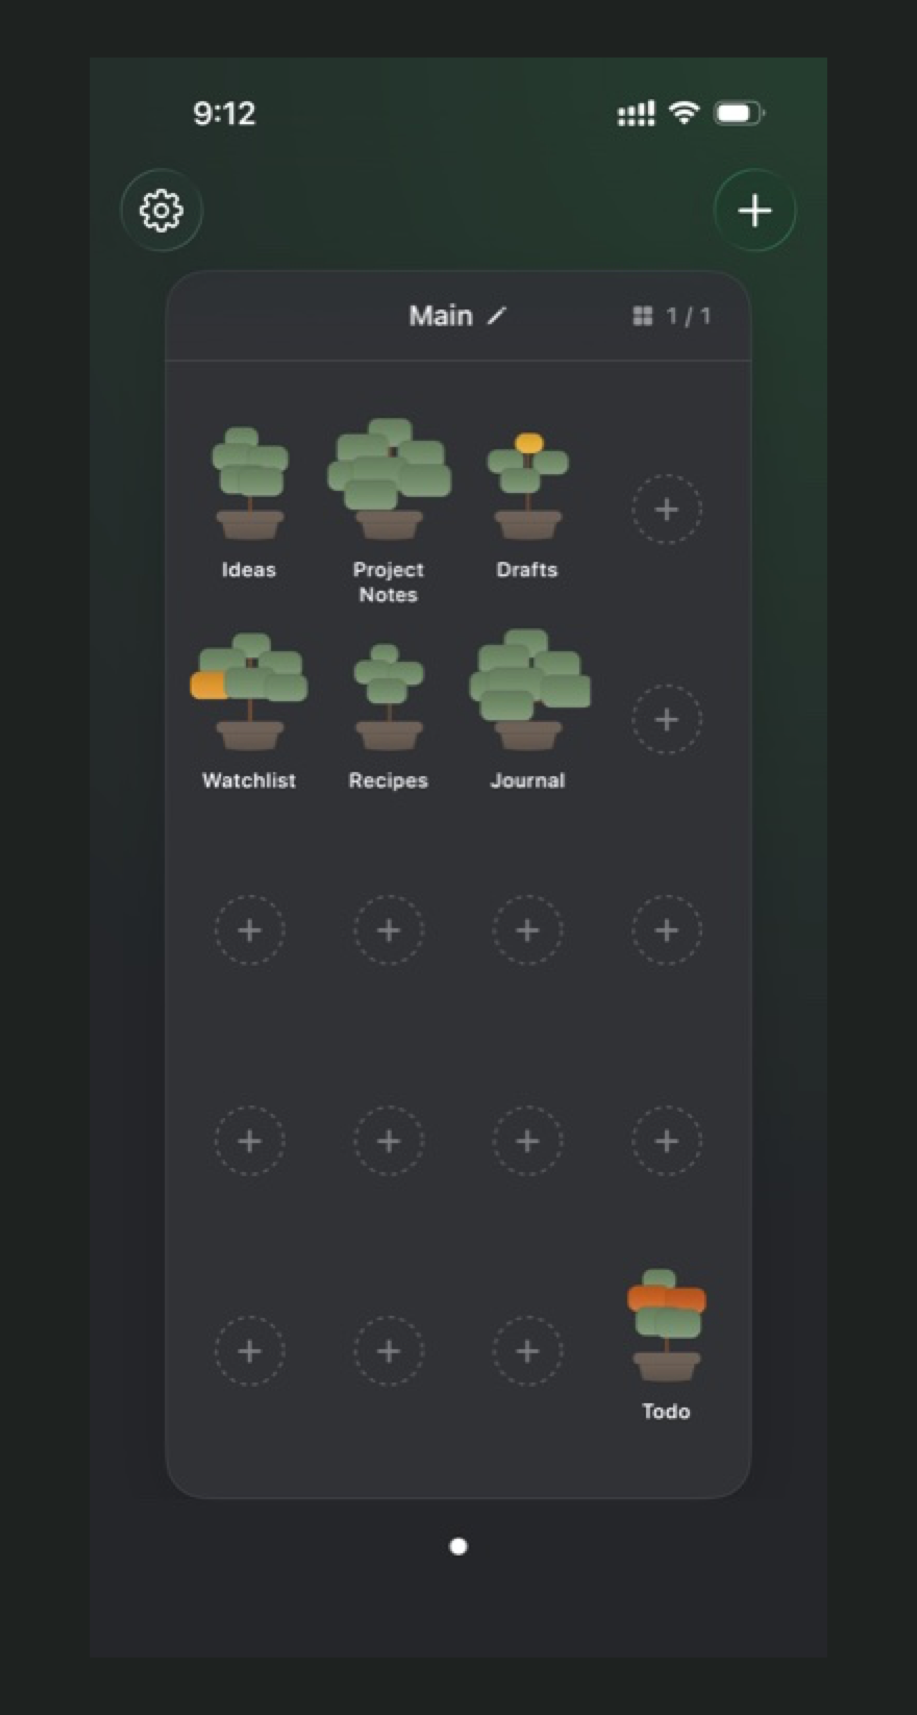
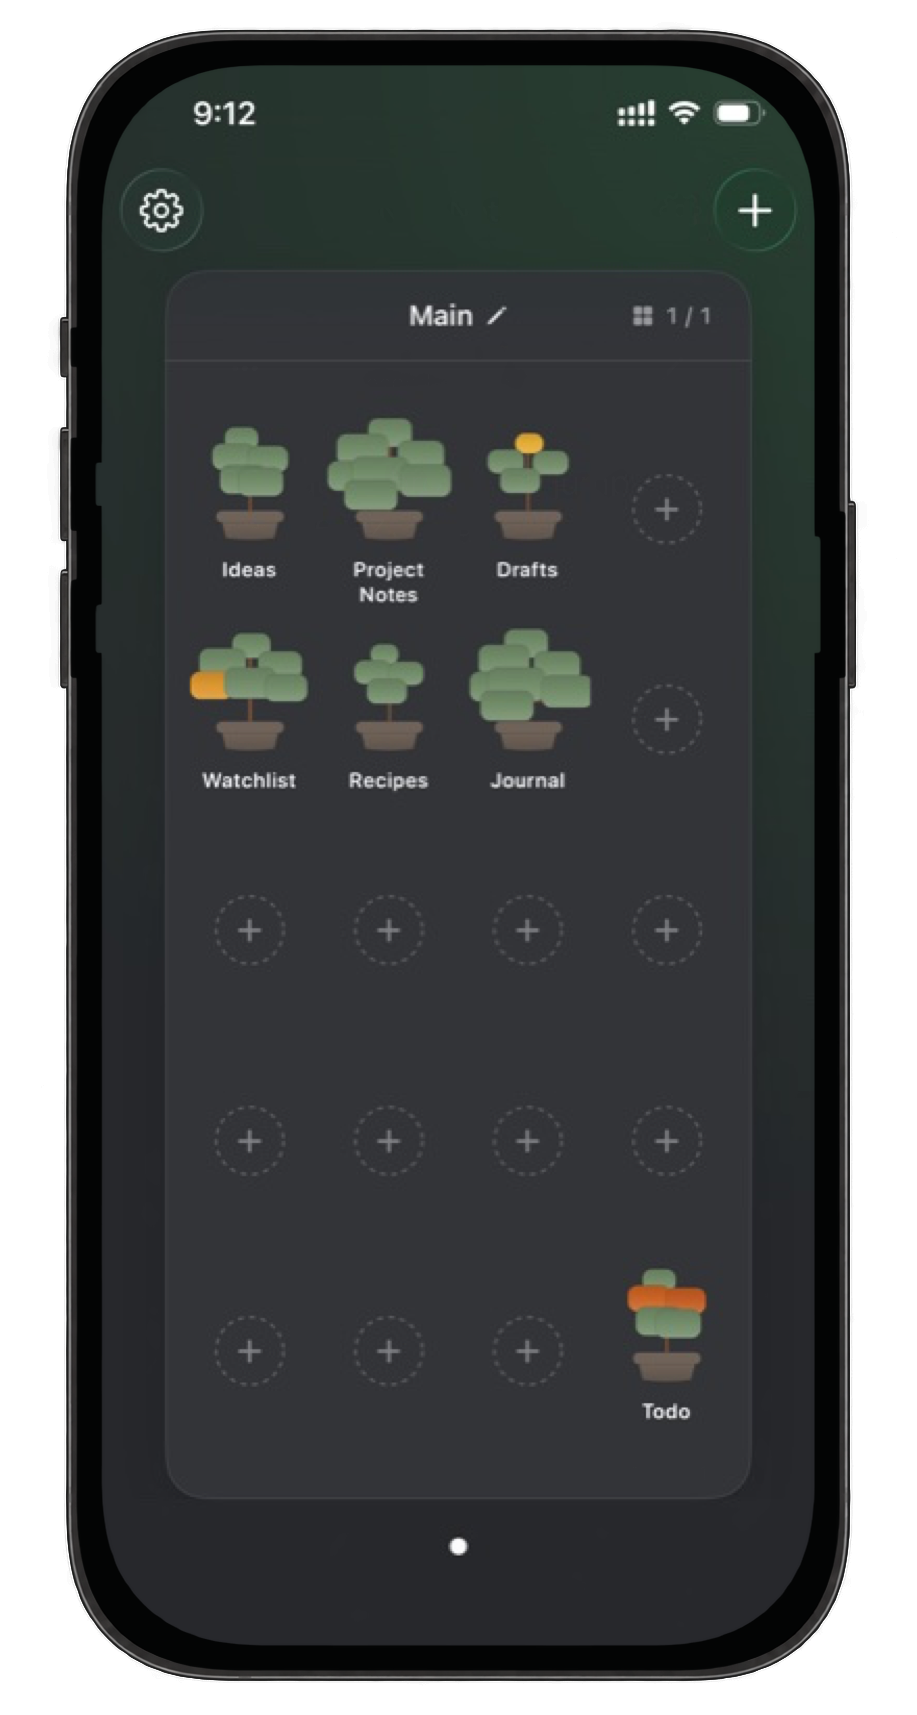
design update

Changed region(s): [[0.0, 0.0, 1.0, 1.0]]

diff --git a/src/config.ts b/src/config.ts
@@ -21,25 +21,25 @@ export const SITE_ASSETS = {
   },
   decayWorkflow: [
     {
-      src: "/images/decay-step-1-garden.png",
+      src: "/images/decay-step-1-garden.png?v=2",
       width: 917,
       height: 1715,
       alt: "LivingNotes garden with a yellowing plant indicating a collection that needs attention",
     },
     {
-      src: "/images/decay-step-2-open-note.png",
+      src: "/images/decay-step-2-open-note.png?v=2",
       width: 917,
       height: 1715,
       alt: "An affected note opened in LivingNotes",
     },
     {
-      src: "/images/decay-step-3-hold.png",
+      src: "/images/decay-step-3-hold.png?v=2",
       width: 917,
       height: 1715,
       alt: "A caterpillar obscuring a vowel with instructions to press and hold it for two seconds",
     },
     {
-      src: "/images/decay-step-4-repaired.png",
+      src: "/images/decay-step-4-repaired.png?v=2",
       width: 917,
       height: 1715,
       alt: "The LivingNotes card repaired with its complete text visible again",

diff --git a/README.md b/README.md
@@ -48,10 +48,10 @@ Browser-ready image assets live in `public/images/`. All images currently used b
 | --- | --- | --- |
 | `livingnotes-iphone.jpg` | Hero phone | JPEG, sRGB |
 | `livingnotes-decay-cutout.png` | Decay/card section | PNG with a genuinely transparent background |
-| `decay-step-1-garden.png` | Workflow: yellow garden | PNG, 917 × 1715 px |
-| `decay-step-2-open-note.png` | Workflow: opened note | PNG, 917 × 1715 px |
-| `decay-step-3-hold.png` | Workflow: hold the caterpillar | PNG, 917 × 1715 px |
-| `decay-step-4-repaired.png` | Workflow: repaired note | PNG, 917 × 1715 px |
+| `decay-step-1-garden.png` | Workflow: yellow garden | Transparent PNG, 917 × 1715 px |
+| `decay-step-2-open-note.png` | Workflow: opened note | Transparent PNG, 917 × 1715 px |
+| `decay-step-3-hold.png` | Workflow: hold the caterpillar | Transparent PNG, 917 × 1715 px |
+| `decay-step-4-repaired.png` | Workflow: repaired note | Transparent PNG, 917 × 1715 px |
 | `livingnotes-preview.jpg` | Social sharing preview | JPEG, 1200 × 630 px |
 | `favicon.svg` | Browser icon | SVG; stored directly in `public/` |
 
@@ -68,7 +68,7 @@ The following files are retained as source/reference screenshots but are not cur
 
 Keeping the same filename and dimensions means no code changes are needed. If you change either, edit the corresponding `src`, `width`, and `height` values in `SITE_ASSETS` inside `src/config.ts`. Width and height should match the exported pixel dimensions; Astro uses them to reserve the correct layout space while the image loads.
 
-The four `decay-step-*.png` files currently use normalized placeholder exports from the available screenshots. Replace them with four exact captures using the same `917 × 1715` canvas and consistent framing. Step 1 should show the yellow garden state, step 2 the affected note, step 3 the caterpillar and hold instruction, and step 4 the same note repaired.
+The four `decay-step-*.png` files use the same transparent `917 × 1715` phone framing as `livingnotes-decay-cutout.png`. Keep the pixels outside the physical phone transparent when replacing them. Step 1 should show the yellow garden state, step 2 the affected note, step 3 the caterpillar and hold instruction, and step 4 the same note repaired.
 
 Keep layered Photoshop working files outside `public/`—for example in a local `design-source/` folder—and export only flattened web assets into `public/images/`. Files inside `public/` are copied directly into the deployed website.
 
